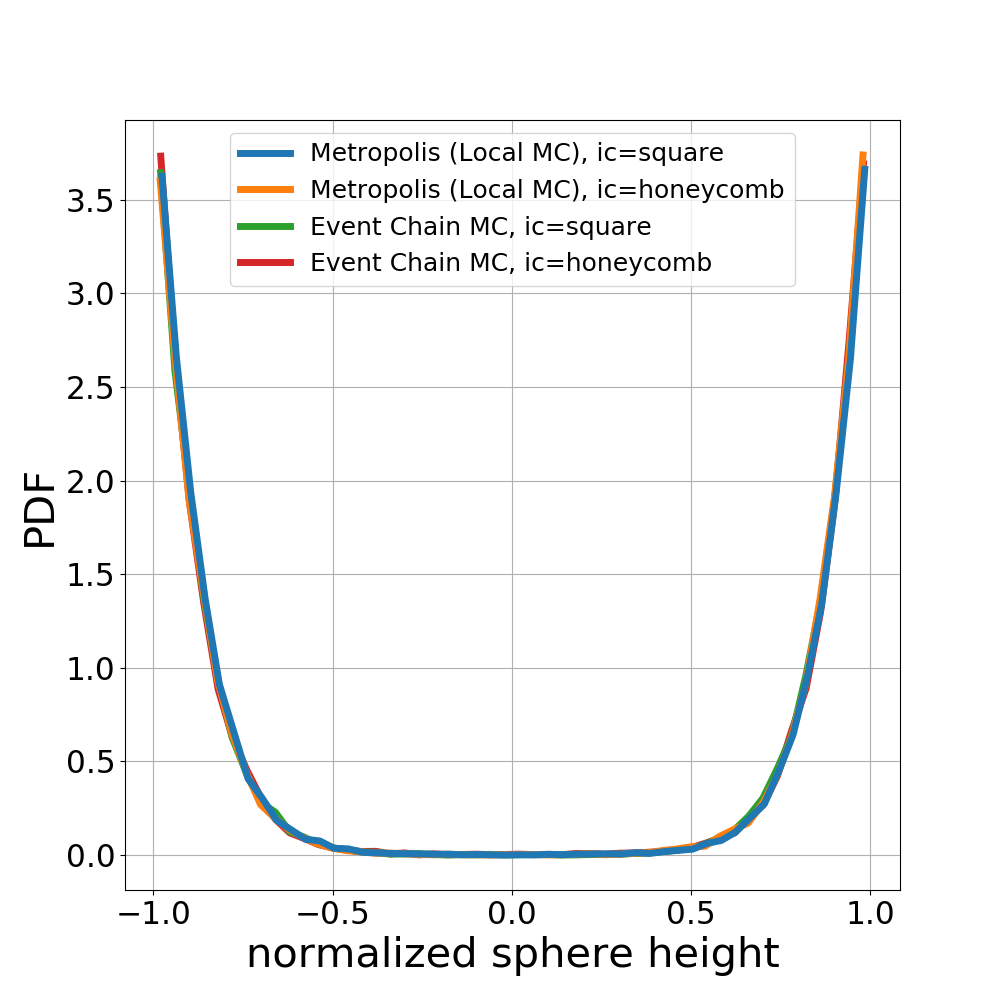
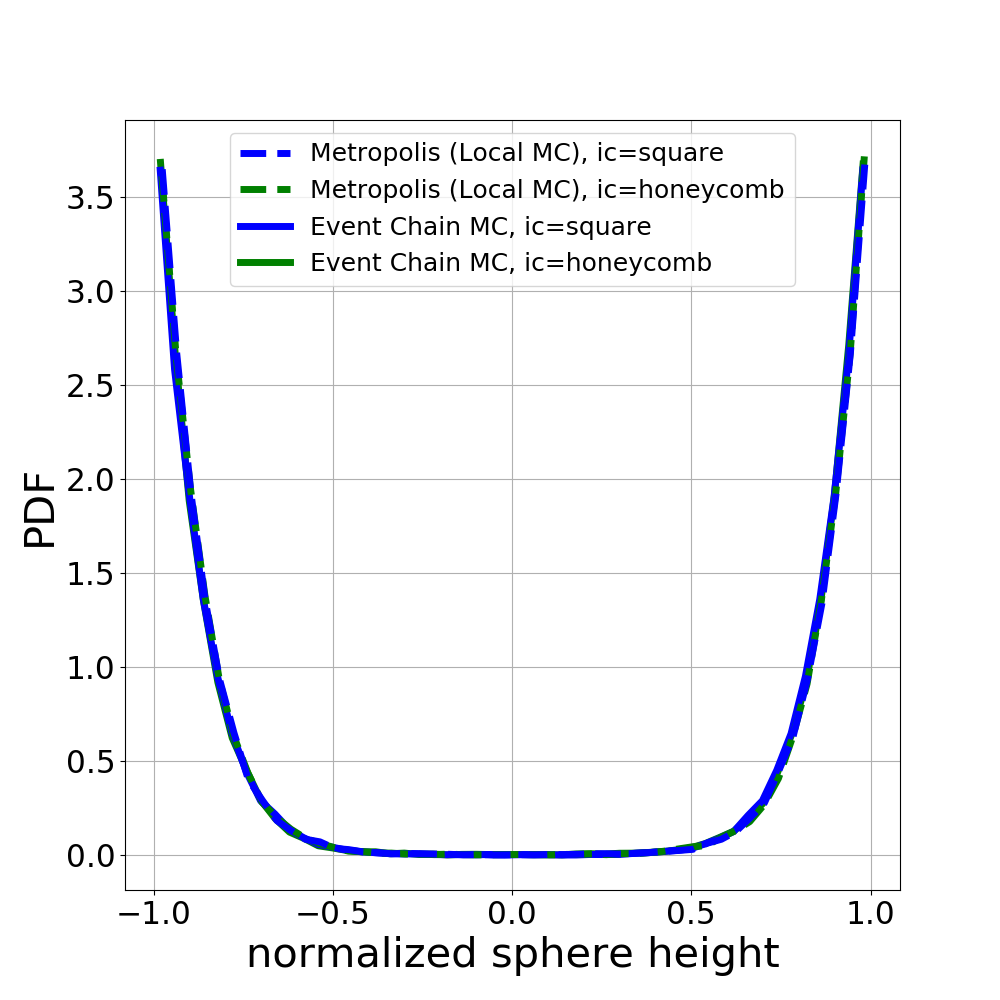
MCMC to LMC renaming

diff --git a/create_all_graphs.py b/create_all_graphs.py
@@ -972,9 +972,14 @@ def bench_mark():
     N, rhoH = 900, 0.8
 
     def label(aglorithm, ic):
-        alg_lbl = 'Metropolis (Local MC)' if algorithm == 'MCMC' else 'Event Chain MC'
+        alg_lbl = 'Metropolis (Local MC)' if algorithm == 'LMC' else 'Event Chain MC'
         ic_lbl = 'square' if initial_conditions == 'AF_square' else 'honeycomb'
         return alg_lbl + ', ic=' + ic_lbl
+
+    def plot_str(algorithm, ic):
+        s = '-' if algorithm == 'ECMC' else '--'
+        s += 'b' if ic == 'AF_square' else 'g'
+        return s
 
     # Figure 1: convergence of psi_mean
     plt.rcParams.update(params)
@@ -982,7 +987,7 @@ def bench_mark():
     plt.figure()
     default_plt_kwargs['linewidth'] = 5
     zorder = 100
-    for algorithm in ['MCMC', 'ECMC']:
+    for algorithm in ['LMC', 'ECMC']:
         for initial_conditions in ['AF_square', 'AF_triangle']:
             fname = join(
                 op_path(rhoH, specif_op='psi_14', N=N, algorithm=algorithm, initial_conditions=initial_conditions),
@@ -990,9 +995,9 @@ def bench_mark():
             reals, psi_avg = np.loadtxt(fname, dtype=complex, unpack=True, usecols=(0, 1))
             reals = np.real(reals)
             psi_avg = np.abs(psi_avg)
-            elapsed_hours = 24*2  # (len(psi_avg) - 1) / 2.0  # in hours
-            plt.plot(reals * elapsed_hours / reals[-1], psi_avg, label=label(algorithm, initial_conditions),
-                     **default_plt_kwargs, zorder=zorder)
+            elapsed_hours = 24 * 2  # (len(psi_avg) - 1) / 2.0  # in hours
+            plt.plot(reals * elapsed_hours / reals[-1], psi_avg, plot_str(algorithm, initial_conditions),
+                     label=label(algorithm, initial_conditions), **default_plt_kwargs, zorder=zorder)
             zorder -= 1
     plt.legend(loc=1)
     plt.xlabel('elapsed real time [h]')
@@ -1003,43 +1008,43 @@ def bench_mark():
 
     # Figure 2: histogram of |psi_4|
     plt.figure()
-    for algorithm in ['MCMC', 'ECMC']:
+    for algorithm in ['LMC', 'ECMC']:
         for initial_conditions in ['AF_square', 'AF_triangle']:
             kwargs = {'N': N, 'algorithm': algorithm, 'initial_conditions': initial_conditions}
-            fname = join(op_path(rhoH, specif_op='psi_14', **kwargs), 'mean_vs_real.txt')
-            reals, psi_avg = np.loadtxt(fname, dtype=complex, unpack=True, usecols=(0, 1))
-            psi_avg = np.abs(psi_avg)
-            if algorithm == 'MCMC' and initial_conditions == 'AF_triangle':
-                j = 30
-            else:
-                j = 2
-            hist, bin_edges = np.histogram(psi_avg[j:], np.linspace(0, 1, 101), density=True)
-            plt.plot((bin_edges[:-1] + bin_edges[1:]) / 2, hist, label=label(algorithm, initial_conditions),
-                     **default_plt_kwargs, zorder=zorder)
+            hists = []
+            op_dir = op_path(rhoH, specif_op='psi_14', **kwargs)
+            files, reals = sort_prefix(op_dir, 'vec_')
+            for k in range(1):
+                psi = np.loadtxt(join(op_dir, files[k]), dtype=complex)
+                hist, bin_edges = np.histogram(np.abs(psi), 50, density=True)
+                hists.append(hist)
+            hist = np.mean(hists, 0)
+            plt.plot((bin_edges[:-1] + bin_edges[1:]) / 2, hist, plot_str(algorithm, initial_conditions),
+                     label=label(algorithm, initial_conditions), **default_plt_kwargs, zorder=zorder)
             zorder -= 1
     plt.legend(loc=2)
     plt.ylabel('PDF')
-    plt.xlabel('$|\\overline{\\psi_{4}}|$')
+    plt.xlabel('$|\\psi_{4}|$')
     plt.grid()
     plt.savefig('graphs/bench_mark_psi_histograms')
 
     # Figure 3: histogram of z
     plt.figure()
-    for algorithm in ['MCMC', 'ECMC']:
+    for algorithm in ['LMC', 'ECMC']:
         for initial_conditions in ['AF_square', 'AF_triangle']:
             kwargs = {'N': N, 'algorithm': algorithm, 'initial_conditions': initial_conditions}
             sim_path = join(sims_dir, sim_name(rhoH, **kwargs))
             write_or_load = WriteOrLoad(sim_path)
             hists = []
-            for k in range(40):
+            for k in range(60):
                 sp = write_or_load.last_spheres(k)[0]
                 z = sp[:, 2]
                 z = (z - np.mean(z)) * 2 / (np.max(z) - np.min(z))
                 hist, bin_edges = np.histogram(z, 50, density=True)
                 hists.append(hist)
             hist = np.mean(hists, 0)
-            plt.plot((bin_edges[:-1] + bin_edges[1:]) / 2, hist, label=label(algorithm, initial_conditions),
-                     zorder=zorder, **default_plt_kwargs)
+            plt.plot((bin_edges[:-1] + bin_edges[1:]) / 2, hist, plot_str(algorithm, initial_conditions),
+                     label=label(algorithm, initial_conditions), zorder=zorder, **default_plt_kwargs)
             zorder -= 1
     plt.legend(loc=9)
     plt.ylabel('PDF')
